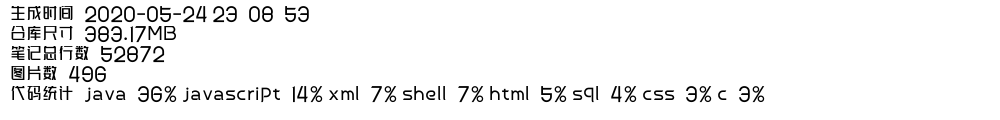
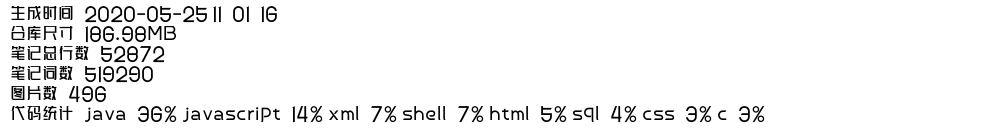
替换 统计脚本为python

Changed region(s): [[0.0, 0.025, 0.775, 0.875]]

diff --git a/statistics.py b/statistics.py
@@ -5,6 +5,7 @@ from wordcloud import WordCloud
 
 import time
 from PIL import Image, ImageFont, ImageDraw
+
 def listAllFile(path):
   result = []
   for item in os.listdir(path):
@@ -102,12 +103,14 @@ def generateWordCloud():
 def statisticNote():
   text = ''
   totalLineCount = 0
+  totalWordCount = 0
   for item in listAllMdFile():
     file = open(item,'rb')
     text = text + str(file.read(),encoding="utf-8") + '\n'
     file.close()
   totalLineCount = len(text.split('\n'))
-  return totalLineCount
+  totalWordCount = sum(1 for _ in jieba.cut_for_search(text.strip()))
+  return totalLineCount, totalWordCount
 
 def statisticImg():
   count = 0
@@ -117,14 +120,15 @@ def statisticImg():
   return count
 
 def generateNoteInfo():
-  totalLineCount = statisticNote()
+  totalLineCount,totalWordCount = statisticNote()
   localtime = time.strftime("%Y-%m-%d %H:%M:%S", time.localtime())
   text = u"生成时间:" + localtime + "\n"\
     + '仓库尺寸:' + str(getRepositorySize()) + 'MB' + '\n'\
     + '笔记总行数:' + str(totalLineCount) + '\n'\
+    + '笔记词数:' + str(totalWordCount) + '\n'\
     + '图片数:' + str(statisticImg())  + '\n'\
     + "代码统计:" + codeFrequency()
-  im = Image.new("RGB", (1000, 120), (255, 255, 255))
+  im = Image.new("RGB", (1000, 140), (255, 255, 255))
   dr = ImageDraw.Draw(im)
   font = ImageFont.truetype('font.ttf', 16)
   dr.text((10, 5), text, font=font, fill="#000000")
